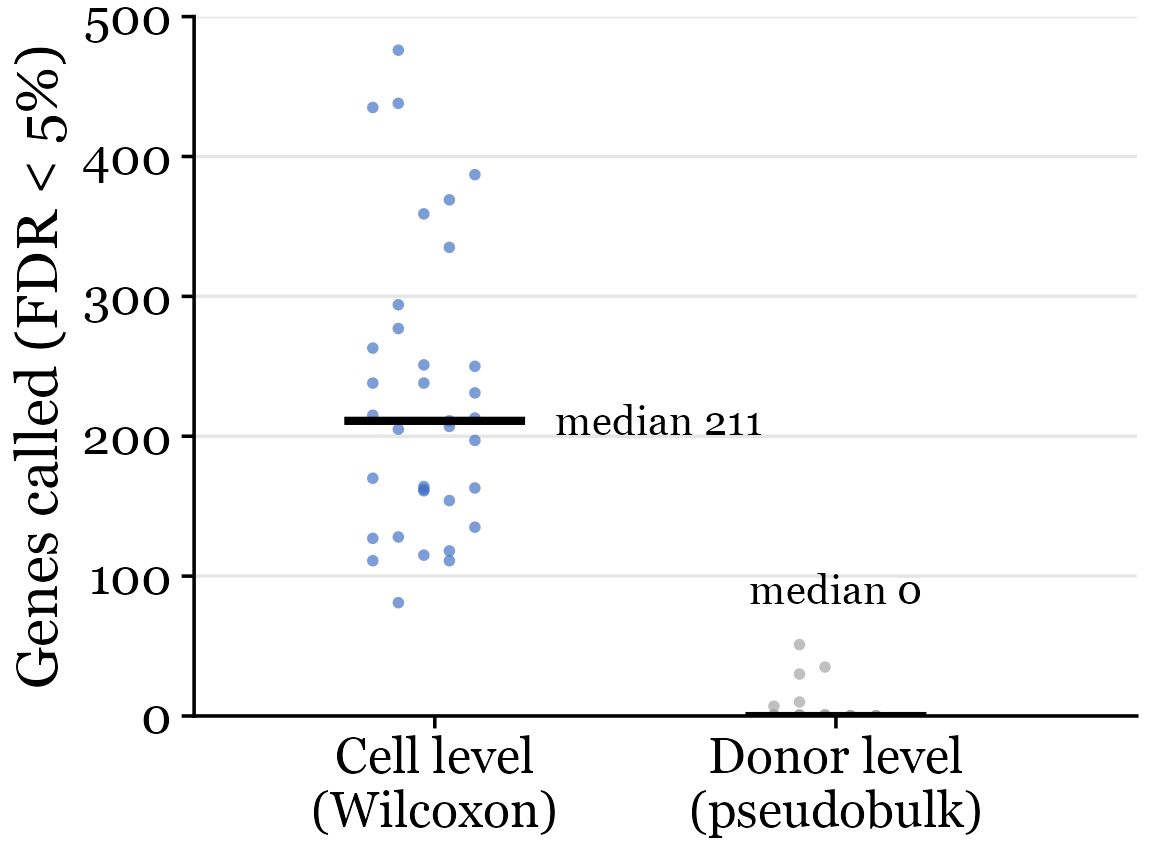
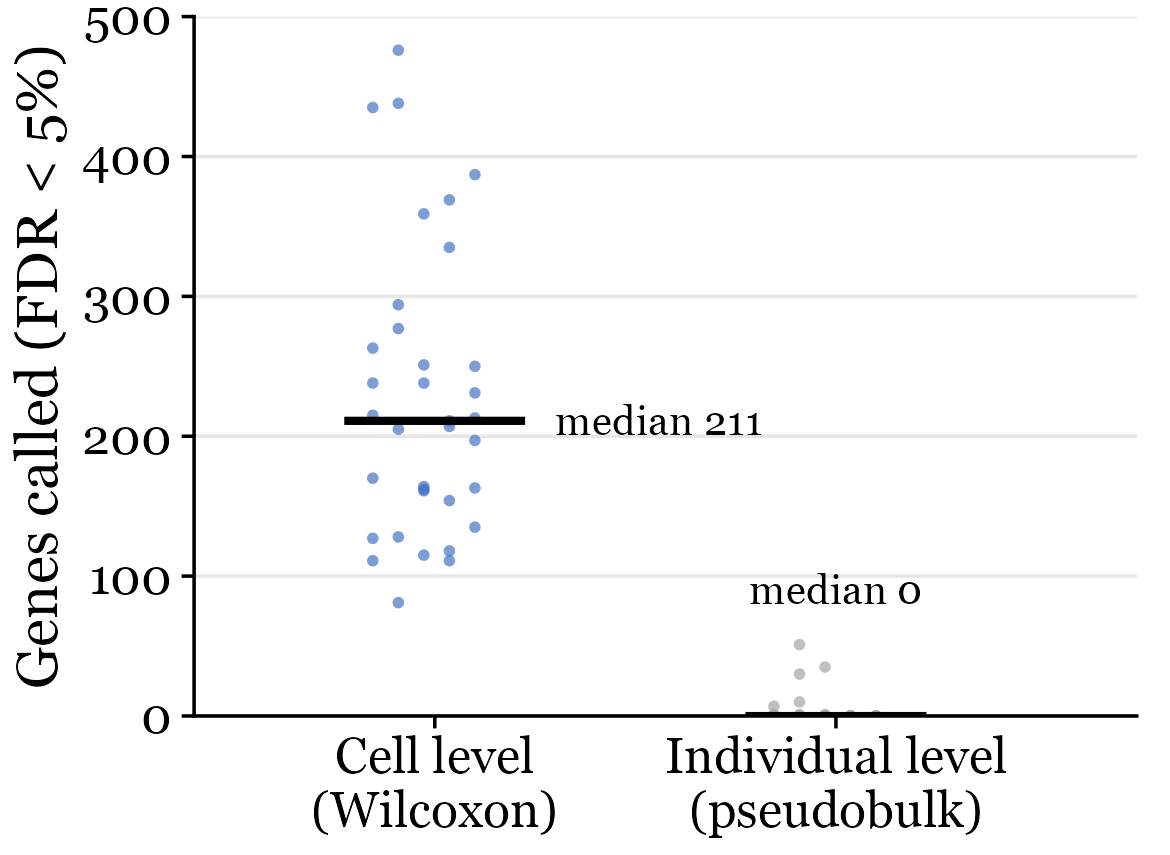
fig07d_3, fig07d_4: label individuals, not donors; notes on terminology

Changed region(s): [[0.5538, 0.8515, 0.8615, 0.9123]]

diff --git a/NOTES.md b/NOTES.md
@@ -355,6 +355,18 @@ Purpose: a bulk-style contrast for the single-cell volcano plot in Gibson
   investigated; real differences between the donors of a split (for example
   sex) would produce them.
 
+### Terminology (decision: Chang, Nov 16)
+
+- The lecture does not use "pseudo-replication". The contrast is stated as
+  the unit of analysis: cells as independent units (cell-level test) against
+  individuals as independent units (individual-level test).
+- Reason: Squair et al. use "pseudo-replicates" for something narrower,
+  bulk-style samples made by shuffling which replicate each cell belongs to.
+  Chang's earlier wording matched the usual meaning (Zimmerman et al. 2021),
+  but the two would be confused on slides that cite Squair.
+- Figure labels say "individual". The scripts and tables say "donor", the
+  dataset's own term; `fig03a` also keeps "donors", which is CELLxGENE's term.
+
 ### Figures
 
 - `fig07d_1`, `fig07d_2`: volcano plots of the same split, cell level and
